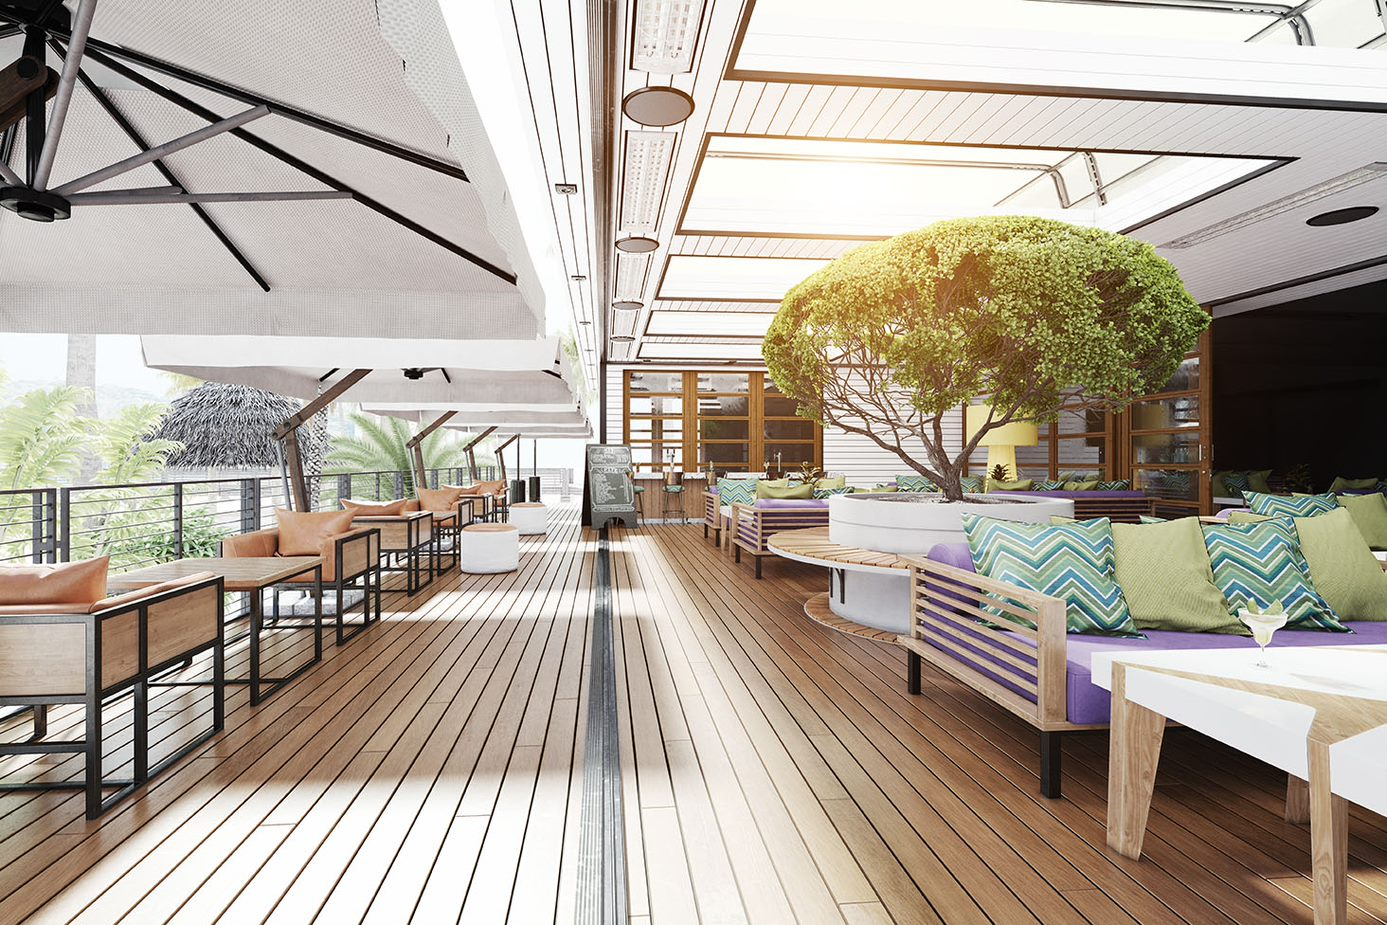
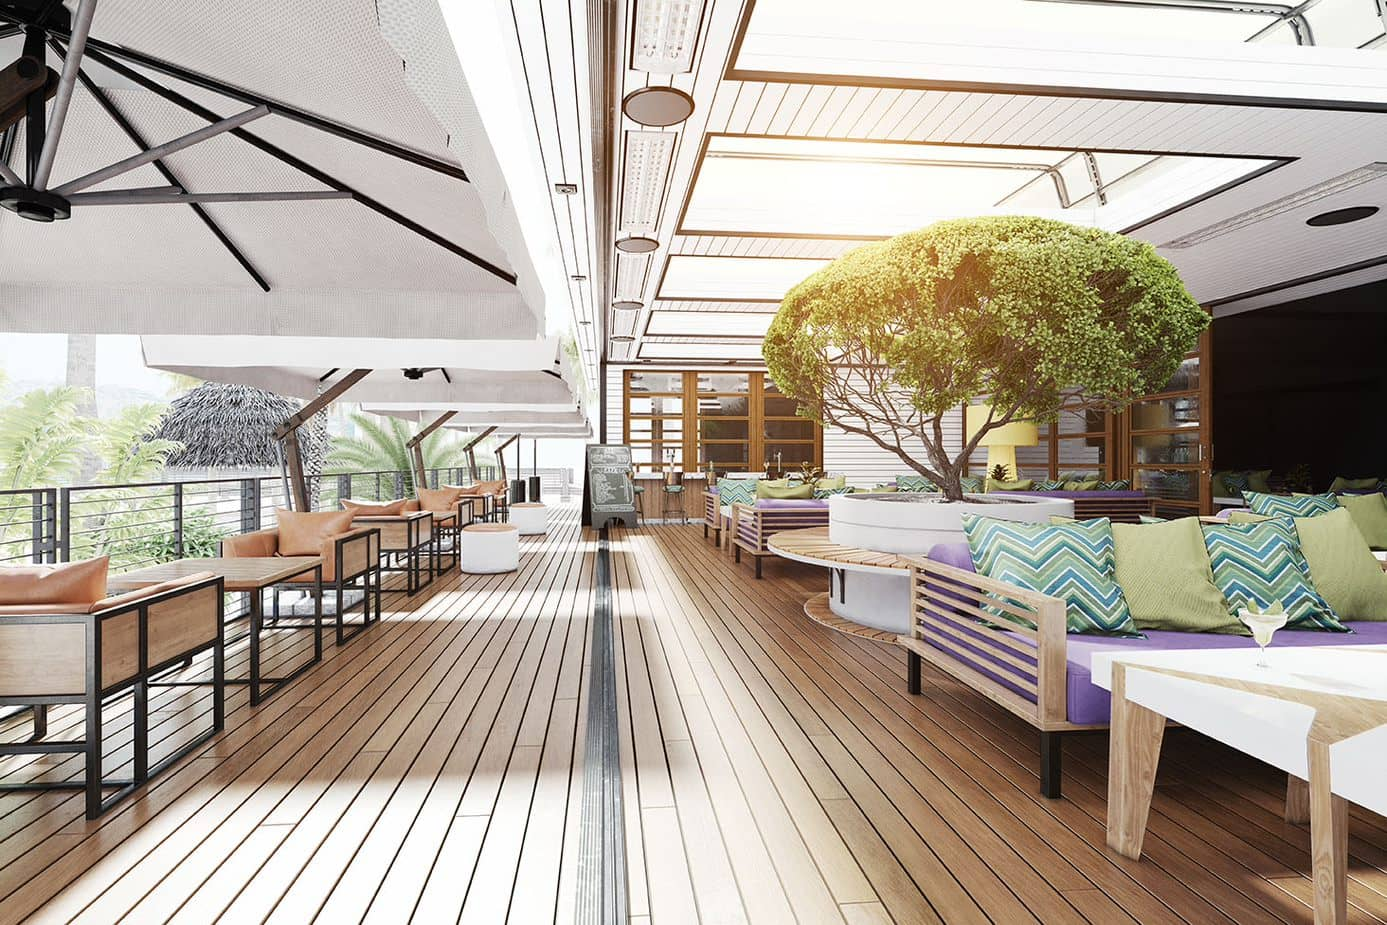
optimized images

diff --git a/src/Components/Highlight.js b/src/Components/Highlight.js
@@ -7,7 +7,7 @@ export default function Highlight({img,title,price}){
             <figure style={{margin:0}}>
                 <img src={img} alt={title}/>
             </figure>
-            <div style={{margin:"10px"}} className="highlightitemmain">
+            <section style={{margin:"10px"}} className="highlightitemmain">
                 <span role="heading">
                     <h6>{title}</h6>
                     <p>${price}</p>
@@ -19,7 +19,7 @@ export default function Highlight({img,title,price}){
                     <p>Order a Delivery</p>
                     <img src={Logo} alt="Dish Icon" height={"15px"}/>
                 </a>
-            </div>
+            </section>
        </article>
     )
 }

diff --git a/src/styles/highlights.css b/src/styles/highlights.css
@@ -76,6 +76,6 @@
 @media screen and (max-width:500px){
     .highlightsheader h2{
         font-size: 12pt !important;
-        font-weight: 500;
+        font-weight: 700;
     }
 }

diff --git a/README.md b/README.md
@@ -1,70 +1,16 @@
-# Getting Started with Create React App
+## Little Lemon(capstone Project by Habib Olamide Oropo)
 
-This project was bootstrapped with [Create React App](https://github.com/facebook/create-react-app).
+#### Little lemon is a demo resturant webapp built with react.
 
-## Available Scripts
+### `Description`
+It can book reservations for a table,Order food via home delivery e.t.c. Little lemon is
+an imaginary resturant owned by a persona called Marco.
 
-In the project directory, you can run:
+The webapp contains 5 pages (Home,About,Menu,Reservation,Login)
 
-### `npm start`
+#### Here is a Visual representaion of the capstone project
 
-Runs the app in the development mode.\
-Open [http://localhost:3000](http://localhost:3000) to view it in your browser.
+![project screenshot](./public/Screenshot%20(144)-crop.png)
 
-The page will reload when you make changes.\
-You may also see any lint errors in the console.
-
-### `npm test`
-
-Launches the test runner in the interactive watch mode.\
-See the section about [running tests](https://facebook.github.io/create-react-app/docs/running-tests) for more information.
-
-### `npm run build`
-
-Builds the app for production to the `build` folder.\
-It correctly bundles React in production mode and optimizes the build for the best performance.
-
-The build is minified and the filenames include the hashes.\
-Your app is ready to be deployed!
-
-See the section about [deployment](https://facebook.github.io/create-react-app/docs/deployment) for more information.
-
-### `npm run eject`
-
-**Note: this is a one-way operation. Once you `eject`, you can't go back!**
-
-If you aren't satisfied with the build tool and configuration choices, you can `eject` at any time. This command will remove the single build dependency from your project.
-
-Instead, it will copy all the configuration files and the transitive dependencies (webpack, Babel, ESLint, etc) right into your project so you have full control over them. All of the commands except `eject` will still work, but they will point to the copied scripts so you can tweak them. At this point you're on your own.
-
-You don't have to ever use `eject`. The curated feature set is suitable for small and middle deployments, and you shouldn't feel obligated to use this feature. However we understand that this tool wouldn't be useful if you couldn't customize it when you are ready for it.
-
-## Learn More
-
-You can learn more in the [Create React App documentation](https://facebook.github.io/create-react-app/docs/getting-started).
-
-To learn React, check out the [React documentation](https://reactjs.org/).
-
-### Code Splitting
-
-This section has moved here: [https://facebook.github.io/create-react-app/docs/code-splitting](https://facebook.github.io/create-react-app/docs/code-splitting)
-
-### Analyzing the Bundle Size
-
-This section has moved here: [https://facebook.github.io/create-react-app/docs/analyzing-the-bundle-size](https://facebook.github.io/create-react-app/docs/analyzing-the-bundle-size)
-
-### Making a Progressive Web App
-
-This section has moved here: [https://facebook.github.io/create-react-app/docs/making-a-progressive-web-app](https://facebook.github.io/create-react-app/docs/making-a-progressive-web-app)
-
-### Advanced Configuration
-
-This section has moved here: [https://facebook.github.io/create-react-app/docs/advanced-configuration](https://facebook.github.io/create-react-app/docs/advanced-configuration)
-
-### Deployment
-
-This section has moved here: [https://facebook.github.io/create-react-app/docs/deployment](https://facebook.github.io/create-react-app/docs/deployment)
-
-### `npm run build` fails to minify
-
-This section has moved here: [https://facebook.github.io/create-react-app/docs/troubleshooting#npm-run-build-fails-to-minify](https://facebook.github.io/create-react-app/docs/troubleshooting#npm-run-build-fails-to-minify)
+### `Contact me`
+For futher inquiries contact me [oropohabib@gmail.com](oropohabib@gmail.com)
